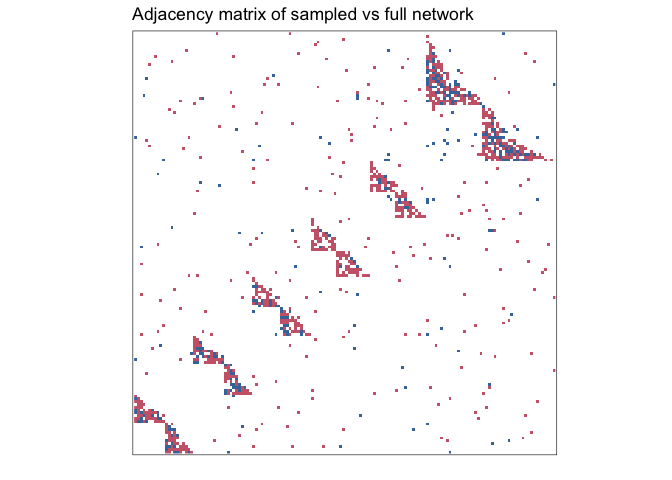
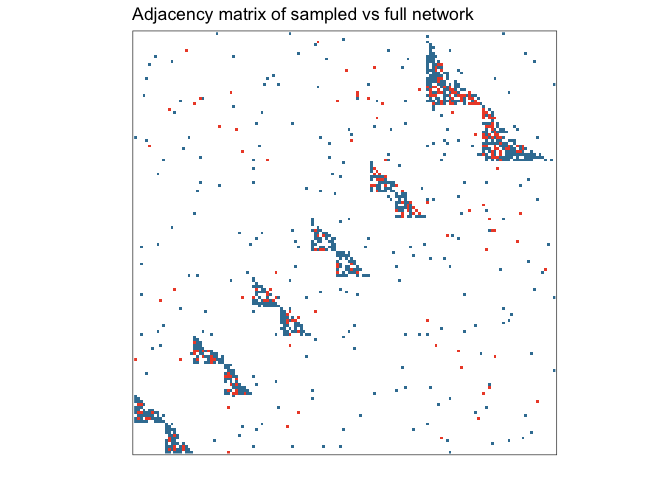
better figures

diff --git a/README.md b/README.md
@@ -93,7 +93,8 @@ plot(network, vertex.size= 0, vertex.label=NA,
 ## Sample from a network
 
 ``` r
-subnet <- netsampler(network, 
+set.seed(123456) # for a reproducible random sampling
+sampled <- netsampler(network, 
                      key_nodes_sampler = "degree", 
                      neighbors_sampler = "random",
                      n_key_nodes = 50,
@@ -109,9 +110,9 @@ adding a title and changing the color theme here.
 ``` r
 library(ggplot2) # needed to modify plot
 
-adj_plot(subnet) + 
+adj_plot(sampled) + 
   ggtitle("Adjacency matrix of sampled vs full network") + 
-  ggthemes::scale_fill_ptol()
+  scale_fill_manual(values = c("#ED4E33", "#3B7EA1"))
 ```
 
 ![](man/figures/README-unnamed-chunk-5-1.png)<!-- -->
@@ -124,10 +125,12 @@ edges):
 
 ``` r
 library(ggraph)
-ggraph(subnet, layout = 'kk') +
+ggraph(sampled, layout = 'kk') +
         geom_edge_link(aes(colour = label, lwd = label), alpha=0.4) +
         geom_node_point(aes(colour = label)) +
-        theme_graph() 
+        theme_graph() + 
+        scale_color_manual(values = c("#ED4E33", "#3B7EA1")) + 
+        scale_edge_color_manual(values = c("#ED4E33", "#3B7EA1"))
 ```
 
 ![](man/figures/README-unnamed-chunk-6-1.png)<!-- -->
@@ -147,15 +150,43 @@ length(groups(community))
 We can check the size of each module as well:
 
 ``` r
-module_sizes <- sapply(groups(community), length)
+module_sizes <- sizes(community)
 module_sizes
+#> Community sizes
 #>  1  2  3  4  5  6 
 #> 21 23 21 22 44 19
-mean(module_sizes)
-#> [1] 25
 ```
+
+Average degree:
 
 ``` r
 mean(degree(as.undirected(network)))
 #> [1] 7.12
 ```
+
+We can also label and plot the clusters using a circular layout:
+
+``` r
+V(sampled)$module <- as.character(membership(community))
+
+ggraph(sampled, layout = 'circle') +
+  geom_edge_link(alpha=0.1) +
+  geom_node_point(aes(colour = module)) +
+  theme_graph()
+```
+
+![](man/figures/README-unnamed-chunk-10-1.png)<!-- -->
+
+Extract and plot just the sampled network:
+
+``` r
+subnet <- subgraph.edges(sampled, 
+                         E(sampled)[label=="sampled"])
+
+ggraph(subnet, layout = 'graphopt') +
+        geom_edge_link(alpha=0.4) +
+        geom_node_point() +
+        theme_graph() 
+```
+
+![](man/figures/README-unnamed-chunk-12-1.png)<!-- -->
